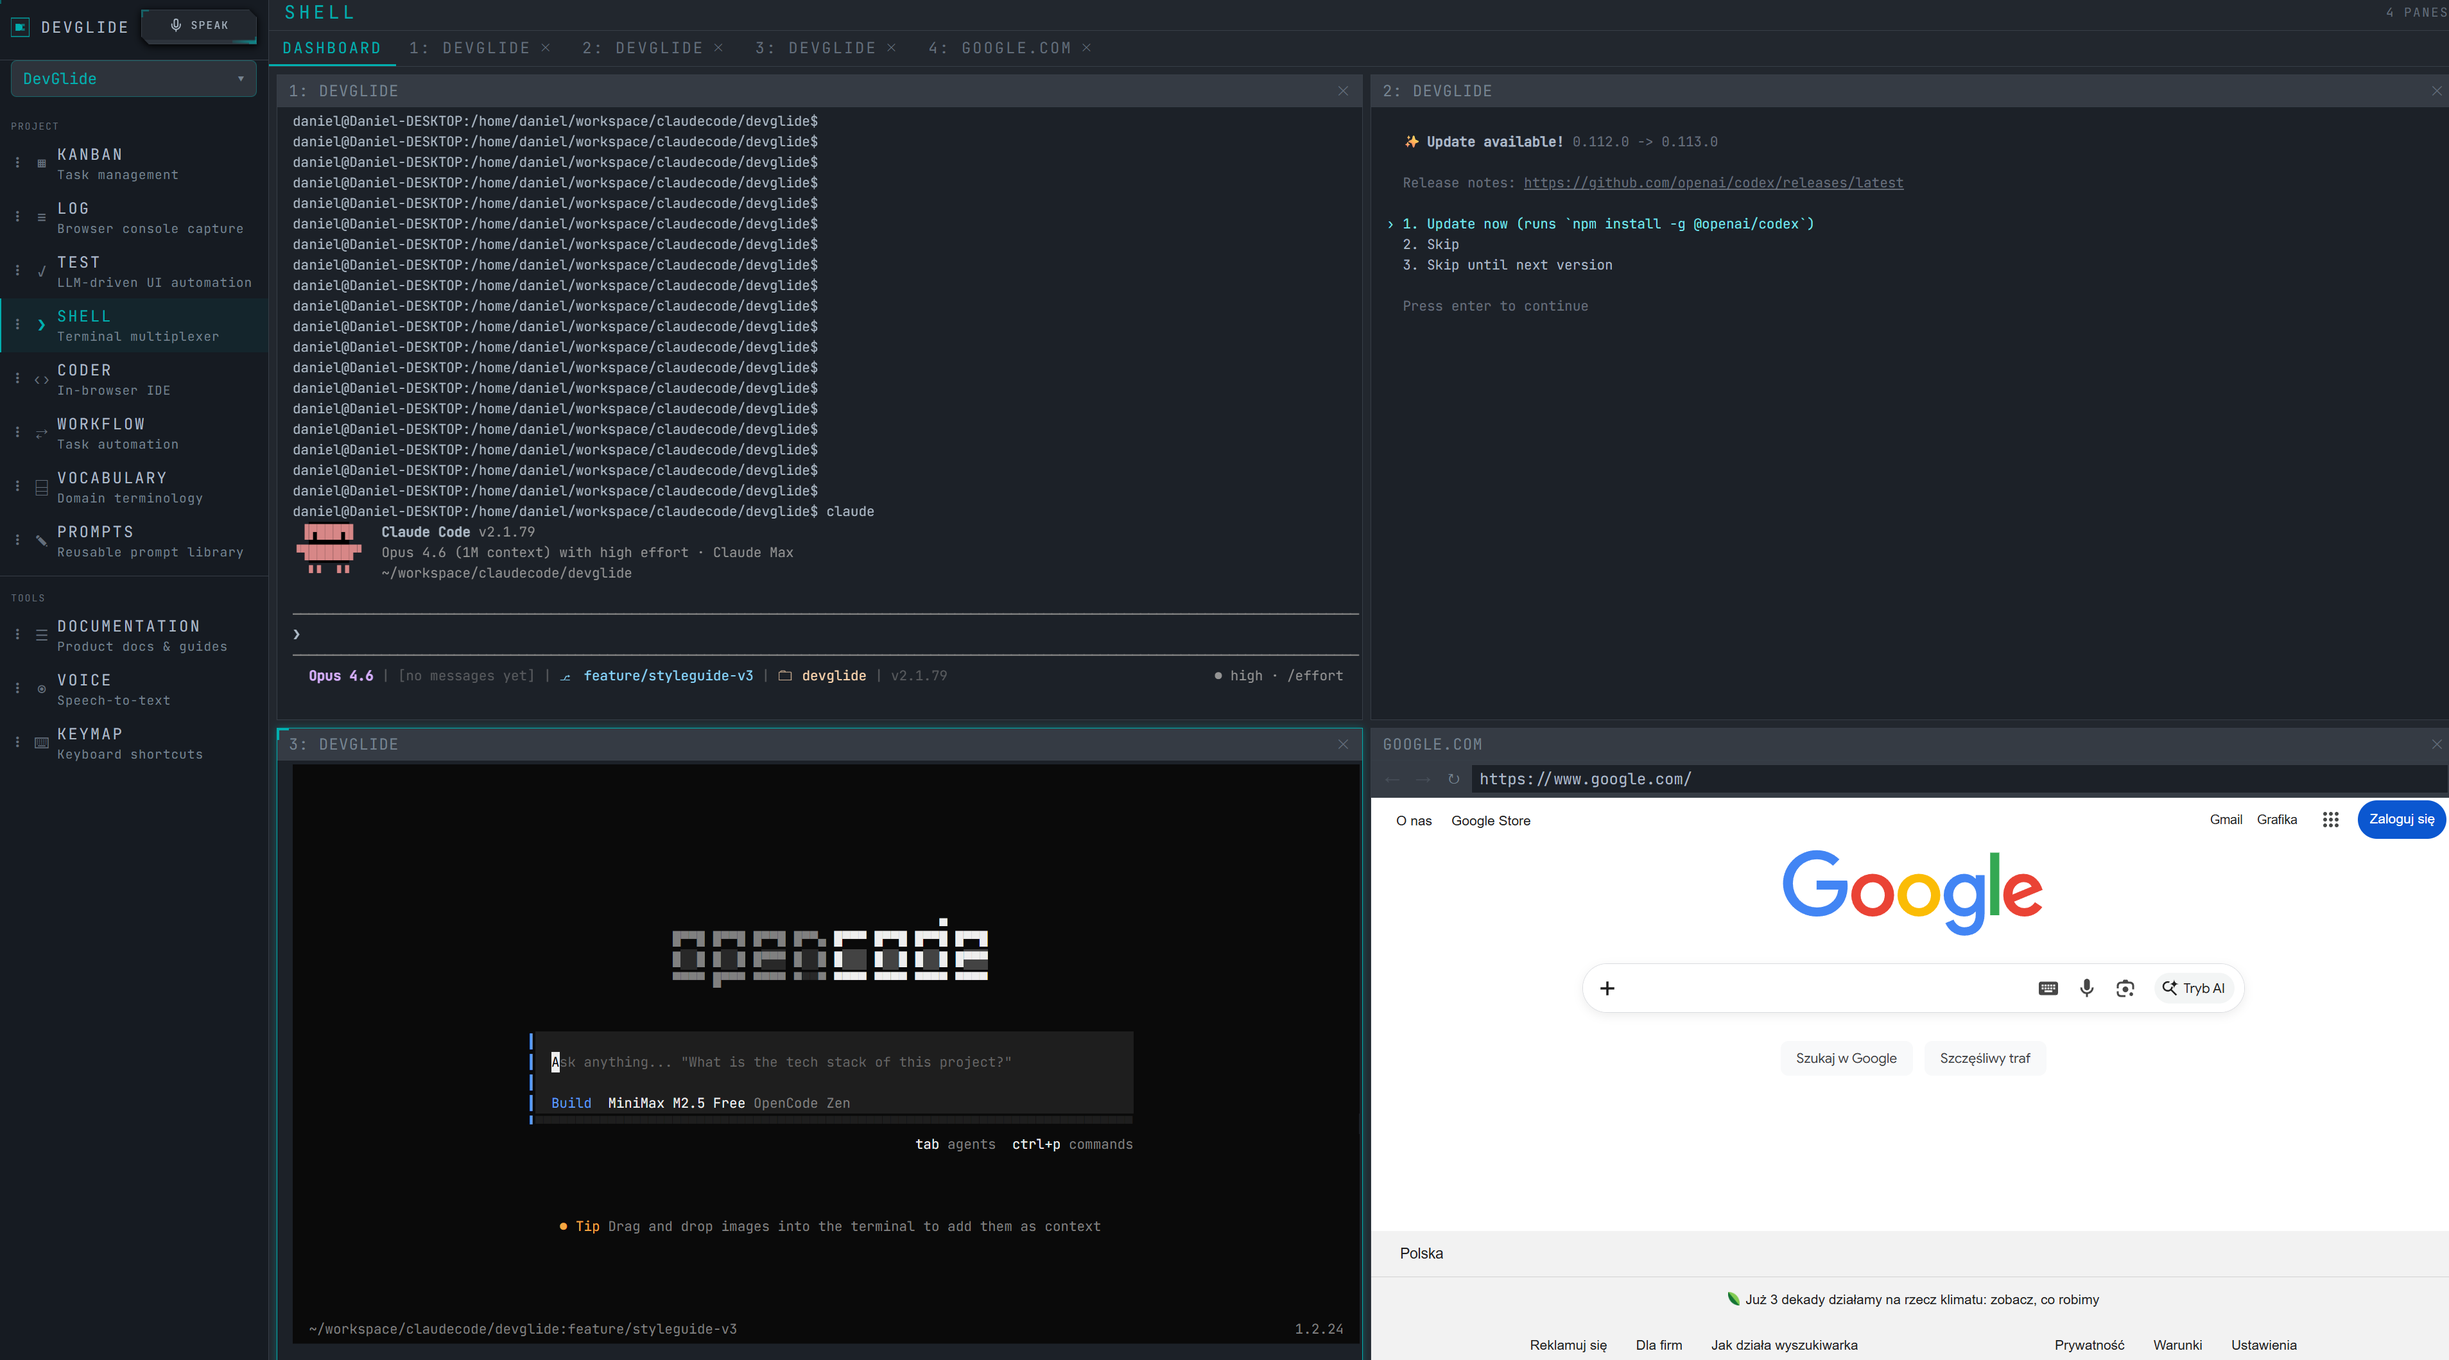
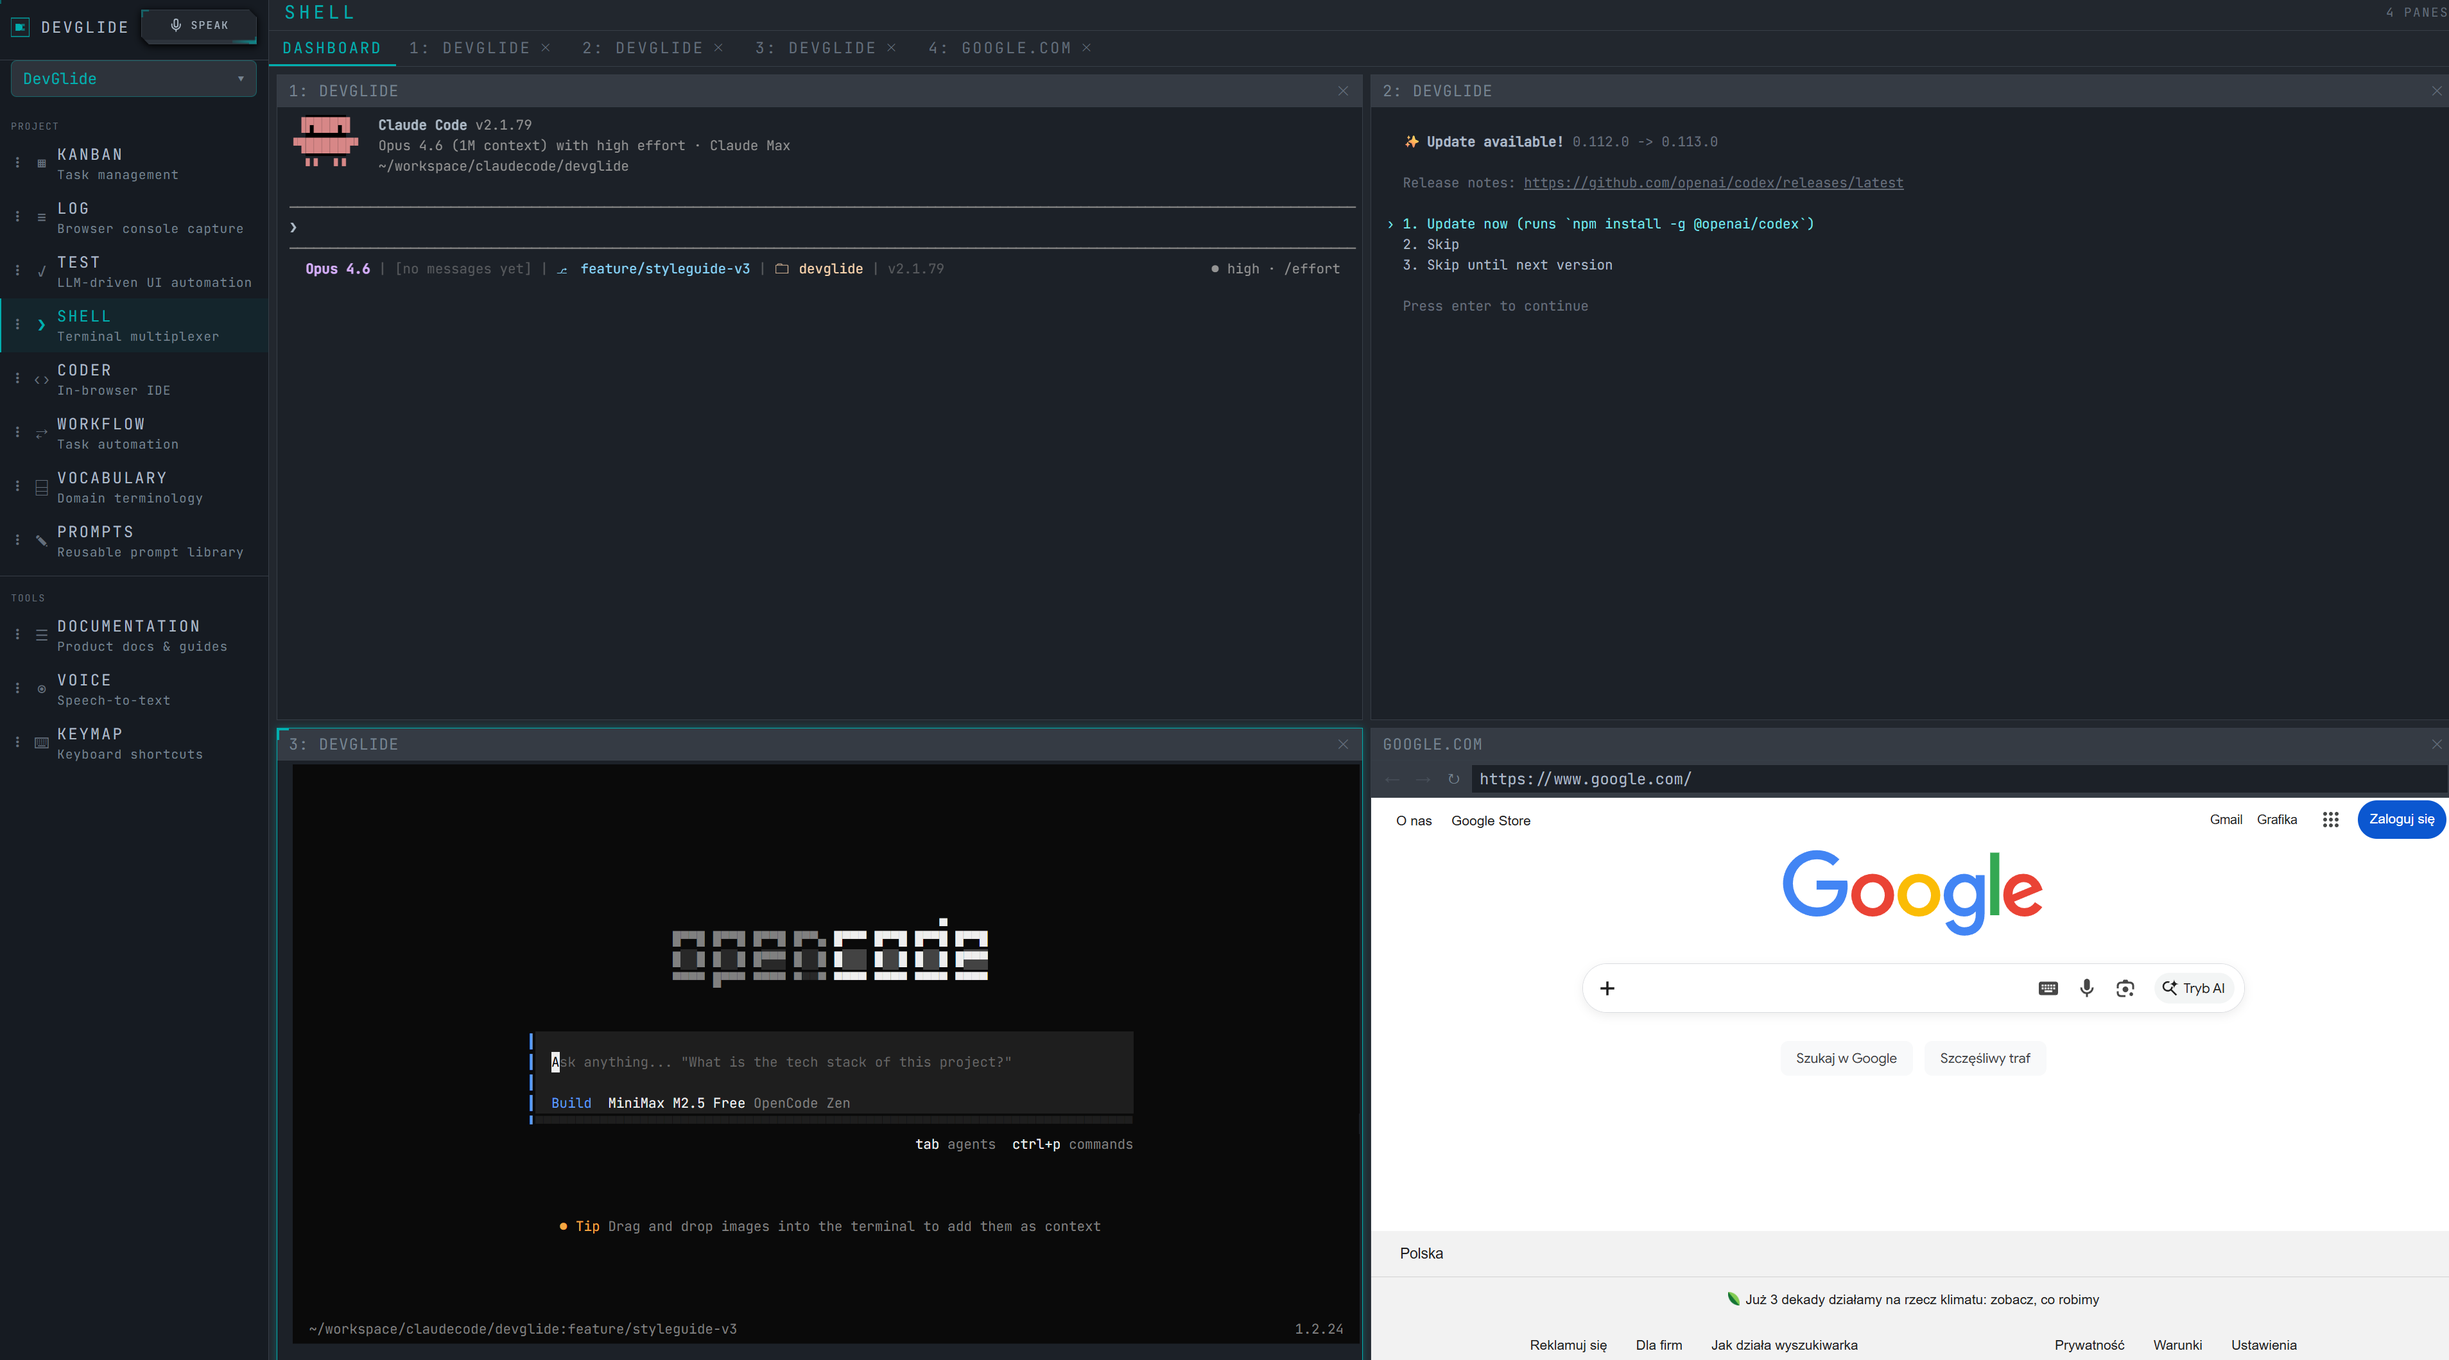
docs: align tool counts with source, add missing Voice/Kanban/Prompts tools
README and docs page referenced 51 MCP tools but actual count is 56.
Voice had 4 undocumented tools (speak, stop, history, analytics),
Kanban was missing get_review_history in docs, Prompts was missing
prompts_context in README. Also fixed Node.js version (18→22), added
devglide setup step, and updated shell screenshot.

Changed region(s): [[0.1248, 0.0623, 0.3431, 0.4361], [0.2495, 0.4672, 0.2807, 0.4983], [0.1248, 0.4672, 0.156, 0.4983]]

diff --git a/src/apps/documentation/public/page.js b/src/apps/documentation/public/page.js
@@ -76,7 +76,7 @@ const HOME_HTML = `
     </p>
     <div class="dc-hero-stats">
       <div class="dc-stat"><span class="dc-stat-value">10</span><span class="dc-stat-label">App Modules</span></div>
-      <div class="dc-stat"><span class="dc-stat-value">51</span><span class="dc-stat-label">MCP Tools</span></div>
+      <div class="dc-stat"><span class="dc-stat-value">56</span><span class="dc-stat-label">MCP Tools</span></div>
       <div class="dc-stat"><span class="dc-stat-value">8</span><span class="dc-stat-label">MCP Servers</span></div>
     </div>
     <img class="dc-hero-screenshot" src="/assets/screenshots/dashboard.png" alt="DevGlide Dashboard" loading="lazy" />
@@ -114,7 +114,7 @@ const HOME_HTML = `
     <h2 class="dc-section-title">10 Integrated Modules</h2>
     <p class="dc-section-desc">Every module exposes MCP tools that Claude Code calls directly. The dashboard shows the same data visually.</p>
     <div class="dc-modules">
-      <div class="dc-module"><div class="dc-module-icon">\u25A6</div><h3>Kanban</h3><p>Features, tasks, bugs, columns, work logs, review feedback. 14 MCP tools.</p></div>
+      <div class="dc-module"><div class="dc-module-icon">\u25A6</div><h3>Kanban</h3><p>Features, tasks, bugs, columns, work logs, review feedback. 15 MCP tools.</p></div>
       <div class="dc-module"><div class="dc-module-icon">\u2713</div><h3>Test</h3><p>AI-driven browser test automation with saved scenarios and regression suites. 7 MCP tools.</p></div>
       <div class="dc-module"><div class="dc-module-icon">\u2942</div><h3>Workflow</h3><p>Visual DAG builder with 12 node types, prompt matching, compiled instructions. 6 tools.</p></div>
       <div class="dc-module"><div class="dc-module-icon">\u276F</div><h3>Shell</h3><p>Terminal multiplexer with named panes, scrollback capture, command execution. 5 tools.</p></div>
@@ -122,7 +122,7 @@ const HOME_HTML = `
       <div class="dc-module"><div class="dc-module-icon">\u2039\u203A</div><h3>Coder</h3><p>In-browser code editor with file tree, tabs, and live preview.</p></div>
       <div class="dc-module"><div class="dc-module-icon">\u270E</div><h3>Prompts</h3><p>Reusable prompt templates with variables, categories, and ratings. 7 MCP tools.</p></div>
       <div class="dc-module"><div class="dc-module-icon">\u2338</div><h3>Vocabulary</h3><p>Domain-specific term dictionary with aliases and context injection. 6 MCP tools.</p></div>
-      <div class="dc-module"><div class="dc-module-icon">\u25C9</div><h3>Voice</h3><p>Speech-to-text transcription for hands-free interaction. 2 MCP tools.</p></div>
+      <div class="dc-module"><div class="dc-module-icon">\u25C9</div><h3>Voice</h3><p>Speech-to-text, text-to-speech, transcription history, and analytics. 6 MCP tools.</p></div>
       <div class="dc-module"><div class="dc-module-icon">\u2328</div><h3>Keymap</h3><p>Configurable keyboard shortcuts for dashboard navigation and actions.</p></div>
     </div>
   </section>
@@ -140,7 +140,7 @@ const HOME_HTML = `
       <div class="dc-step">
         <div class="dc-step-num">2</div>
         <h3>Connect Claude Code</h3>
-        <p>devglide writes a <code>.mcp.json</code> file that Claude Code auto-discovers. All 51 MCP tools become available.</p>
+        <p>devglide writes a <code>.mcp.json</code> file that Claude Code auto-discovers. All 56 MCP tools become available.</p>
       </div>
       <div class="dc-step-arrow">\u2192</div>
       <div class="dc-step">
@@ -167,7 +167,7 @@ const GETTING_STARTED_HTML = `
     <div class="dc-card">
       <h2>Prerequisites</h2>
       <ul class="dc-list">
-        <li><strong>Node.js</strong> 18 or later</li>
+        <li><strong>Node.js</strong> 22 or later</li>
         <li><strong>Claude Code</strong> CLI installed and configured</li>
         <li>A modern browser (Chrome, Firefox, Edge)</li>
       </ul>
@@ -191,7 +191,7 @@ const GETTING_STARTED_HTML = `
 
     <div class="dc-card">
       <h2>Connecting to Claude Code</h2>
-      <p>devglide writes a <code>.mcp.json</code> in your project root. Claude Code auto-discovers it and all 51 MCP tools become available immediately. No configuration needed.</p>
+      <p>Run <code>devglide setup</code> to register all 8 MCP servers with Claude Code and install workflow instructions. Claude Code auto-discovers the <code>.mcp.json</code> and all 56 MCP tools become available immediately.</p>
       <p>Once connected, Claude Code can:</p>
       <ul class="dc-list">
         <li>Manage tasks and features on the <strong>Kanban</strong> board</li>
@@ -245,7 +245,7 @@ const MODULES_HTML = `
     <p class="dc-content-lead">Deep dive into each of devglide's 10 integrated modules.</p>
 
     <div class="dc-card" id="mod-kanban">
-      <div class="dc-card-header"><span class="dc-card-icon">\u25A6</span><h2>Kanban</h2><span class="dc-tool-count">14 tools</span></div>
+      <div class="dc-card-header"><span class="dc-card-icon">\u25A6</span><h2>Kanban</h2><span class="dc-tool-count">15 tools</span></div>
       <p>Full project management with features, columns, tasks, bugs, work logs, and review feedback.</p>
       <img class="dc-module-screenshot" src="/assets/screenshots/kanban.png" alt="Kanban board with task cards across columns" loading="lazy" />
       <h3>Key Concepts</h3>
@@ -257,7 +257,7 @@ const MODULES_HTML = `
         <li><strong>Review Feedback</strong> &mdash; Append-only versioned notes from reviews.</li>
       </ul>
       <h3>MCP Tools</h3>
-      <p class="dc-tools-list">kanban_list_features, kanban_create_feature, kanban_get_feature, kanban_update_feature, kanban_delete_feature, kanban_list_items, kanban_create_item, kanban_get_item, kanban_update_item, kanban_move_item, kanban_delete_item, kanban_append_work_log, kanban_get_work_log, kanban_append_review</p>
+      <p class="dc-tools-list">kanban_list_features, kanban_create_feature, kanban_get_feature, kanban_update_feature, kanban_delete_feature, kanban_list_items, kanban_create_item, kanban_get_item, kanban_update_item, kanban_move_item, kanban_delete_item, kanban_append_work_log, kanban_get_work_log, kanban_append_review, kanban_get_review_history</p>
     </div>
 
     <div class="dc-card" id="mod-test">
@@ -361,11 +361,18 @@ const MODULES_HTML = `
     </div>
 
     <div class="dc-card" id="mod-voice">
-      <div class="dc-card-header"><span class="dc-card-icon">\u25C9</span><h2>Voice</h2><span class="dc-tool-count">2 tools</span></div>
-      <p>Speech-to-text transcription for hands-free interaction and dictation. Click the microphone widget in the sidebar to record. Audio is sent to the configured STT provider for transcription.</p>
+      <div class="dc-card-header"><span class="dc-card-icon">\u25C9</span><h2>Voice</h2><span class="dc-tool-count">6 tools</span></div>
+      <p>Speech-to-text transcription and text-to-speech with pluggable providers, transcription history, and usage analytics. Click the microphone widget in the sidebar to record. Audio is sent to the configured STT provider for transcription. TTS uses neural voices for spoken notifications.</p>
       <img class="dc-module-screenshot" src="/assets/screenshots/voice.png" alt="Voice configuration with transcription statistics" loading="lazy" />
+      <h3>Key Concepts</h3>
+      <ul class="dc-list">
+        <li><strong>STT Providers</strong> &mdash; OpenAI, Groq, local whisper.cpp, faster-whisper, vLLM, LocalAI.</li>
+        <li><strong>TTS</strong> &mdash; Neural text-to-speech (Microsoft Edge Read Aloud API) with configurable voice, rate, and pitch.</li>
+        <li><strong>History</strong> &mdash; Every transcription is recorded with word count, WPM, and filler word analysis.</li>
+        <li><strong>Analytics</strong> &mdash; Aggregated stats including average WPM, top filler words, and session totals.</li>
+      </ul>
       <h3>MCP Tools</h3>
-      <p class="dc-tools-list">voice_transcribe, voice_status</p>
+      <p class="dc-tools-list">voice_transcribe, voice_speak, voice_stop, voice_history, voice_analytics, voice_status</p>
     </div>
 
     <div class="dc-card" id="mod-keymap">
@@ -380,11 +387,11 @@ const MODULES_HTML = `
 const API_HTML = `
   <section class="dc-content">
     <h1 class="dc-content-title">API Reference</h1>
-    <p class="dc-content-lead">Complete catalog of all 51 MCP tools across 8 servers.</p>
+    <p class="dc-content-lead">Complete catalog of all 56 MCP tools across 8 servers.</p>
     <p class="dc-content-note">Each server runs as a stdio process auto-discovered by Claude Code via <code>.mcp.json</code>. Tools are also available as REST endpoints at <code>/api/{module}/</code>.</p>
 
     <div class="dc-card">
-      <div class="dc-card-header"><h2>devglide-kanban</h2><span class="dc-tool-count">14 tools</span></div>
+      <div class="dc-card-header"><h2>devglide-kanban</h2><span class="dc-tool-count">15 tools</span></div>
       <table class="dc-api-table">
         <tbody>
           <tr><td><code>kanban_list_features</code></td><td>List all features in the current project</td></tr>
@@ -401,6 +408,7 @@ const API_HTML = `
           <tr><td><code>kanban_append_work_log</code></td><td>Append a versioned work log entry to a task</td></tr>
           <tr><td><code>kanban_get_work_log</code></td><td>Get the full work log history for a task</td></tr>
           <tr><td><code>kanban_append_review</code></td><td>Append versioned review feedback to a task</td></tr>
+          <tr><td><code>kanban_get_review_history</code></td><td>Get the full review history for a task</td></tr>
         </tbody>
       </table>
     </div>
@@ -489,10 +497,14 @@ const API_HTML = `
     </div>
 
     <div class="dc-card">
-      <div class="dc-card-header"><h2>devglide-voice</h2><span class="dc-tool-count">2 tools</span></div>
+      <div class="dc-card-header"><h2>devglide-voice</h2><span class="dc-tool-count">6 tools</span></div>
       <table class="dc-api-table">
         <tbody>
           <tr><td><code>voice_transcribe</code></td><td>Transcribe base64-encoded audio data</td></tr>
+          <tr><td><code>voice_speak</code></td><td>Speak text aloud using neural text-to-speech</td></tr>
+          <tr><td><code>voice_stop</code></td><td>Stop current speech playback</td></tr>
+          <tr><td><code>voice_history</code></td><td>List or search past transcriptions with text analysis</td></tr>
+          <tr><td><code>voice_analytics</code></td><td>Get aggregated transcription stats (WPM, filler words, totals)</td></tr>
           <tr><td><code>voice_status</code></td><td>Check service status and transcription stats</td></tr>
         </tbody>
       </table>

diff --git a/README.md b/README.md
@@ -19,7 +19,7 @@
 </p>
 
 <p align="center">
-  <img src="https://img.shields.io/badge/MCP_Tools-51-22c55e" alt="51 MCP Tools" />
+  <img src="https://img.shields.io/badge/MCP_Tools-56-22c55e" alt="56 MCP Tools" />
   <img src="https://img.shields.io/badge/MCP_Servers-8-3b82f6" alt="8 MCP Servers" />
   <img src="https://img.shields.io/badge/App_Modules-10-f59e0b" alt="10 App Modules" />
   <img src="https://img.shields.io/badge/license-MIT-blue" alt="MIT License" />
@@ -51,7 +51,7 @@ devglide setup
 devglide dev
 ```
 
-Open **http://localhost:7000** — that's it. Claude Code can now use all 51 MCP tools.
+Open **http://localhost:7000** — that's it. Claude Code can now use all 56 MCP tools.
 
 > **Requirements:** Node.js >= 22, [Claude Code](https://docs.anthropic.com/en/docs/claude-code) CLI
 >
@@ -91,9 +91,9 @@ File tree viewer and editor for navigating your monorepo directly in the dashboa
 
 <img src="assets/screenshots/coder.png" alt="File tree with package.json open in the editor" width="800" />
 
-### Voice — Speech-to-Text
+### Voice — Speech & Transcription
 
-Configurable speech-to-text transcription with provider selection, model configuration, and usage statistics. Drop audio files or record directly for transcription.
+Configurable speech-to-text with pluggable providers, neural text-to-speech, transcription history with text analysis, and usage analytics. Drop audio files or record directly for transcription; use TTS for spoken notifications.
 
 <img src="assets/screenshots/voice.png" alt="Voice configuration with transcription statistics" width="800" />
 
@@ -153,7 +153,7 @@ Product docs and guides served directly in the dashboard with navigation, module
 
 ## MCP Tools
 
-51 tools across 8 servers. Expand each section for the full reference.
+56 tools across 8 servers. Expand each section for the full reference.
 
 <details>
 <summary><strong>Kanban</strong> — 15 tools</summary>
@@ -235,11 +235,15 @@ Product docs and guides served directly in the dashboard with navigation, module
 </details>
 
 <details>
-<summary><strong>Voice</strong> — 2 tools</summary>
+<summary><strong>Voice</strong> — 6 tools</summary>
 
 | Tool | Description |
 |------|-------------|
 | `voice_transcribe` | Transcribe audio to text |
+| `voice_speak` | Speak text aloud using neural TTS |
+| `voice_stop` | Stop current speech playback |
+| `voice_history` | List or search past transcriptions |
+| `voice_analytics` | Get aggregated transcription stats |
 | `voice_status` | Check service status and stats |
 
 </details>
@@ -257,7 +261,7 @@ Product docs and guides served directly in the dashboard with navigation, module
 </details>
 
 <details>
-<summary><strong>Prompts</strong> — 6 tools</summary>
+<summary><strong>Prompts</strong> — 7 tools</summary>
 
 | Tool | Description |
 |------|-------------|
@@ -267,6 +271,7 @@ Product docs and guides served directly in the dashboard with navigation, module
 | `prompts_add` | Save a new prompt template |
 | `prompts_update` | Update prompt content or metadata |
 | `prompts_remove` | Delete a prompt |
+| `prompts_context` | Compile all prompts as markdown context |
 
 </details>
 
